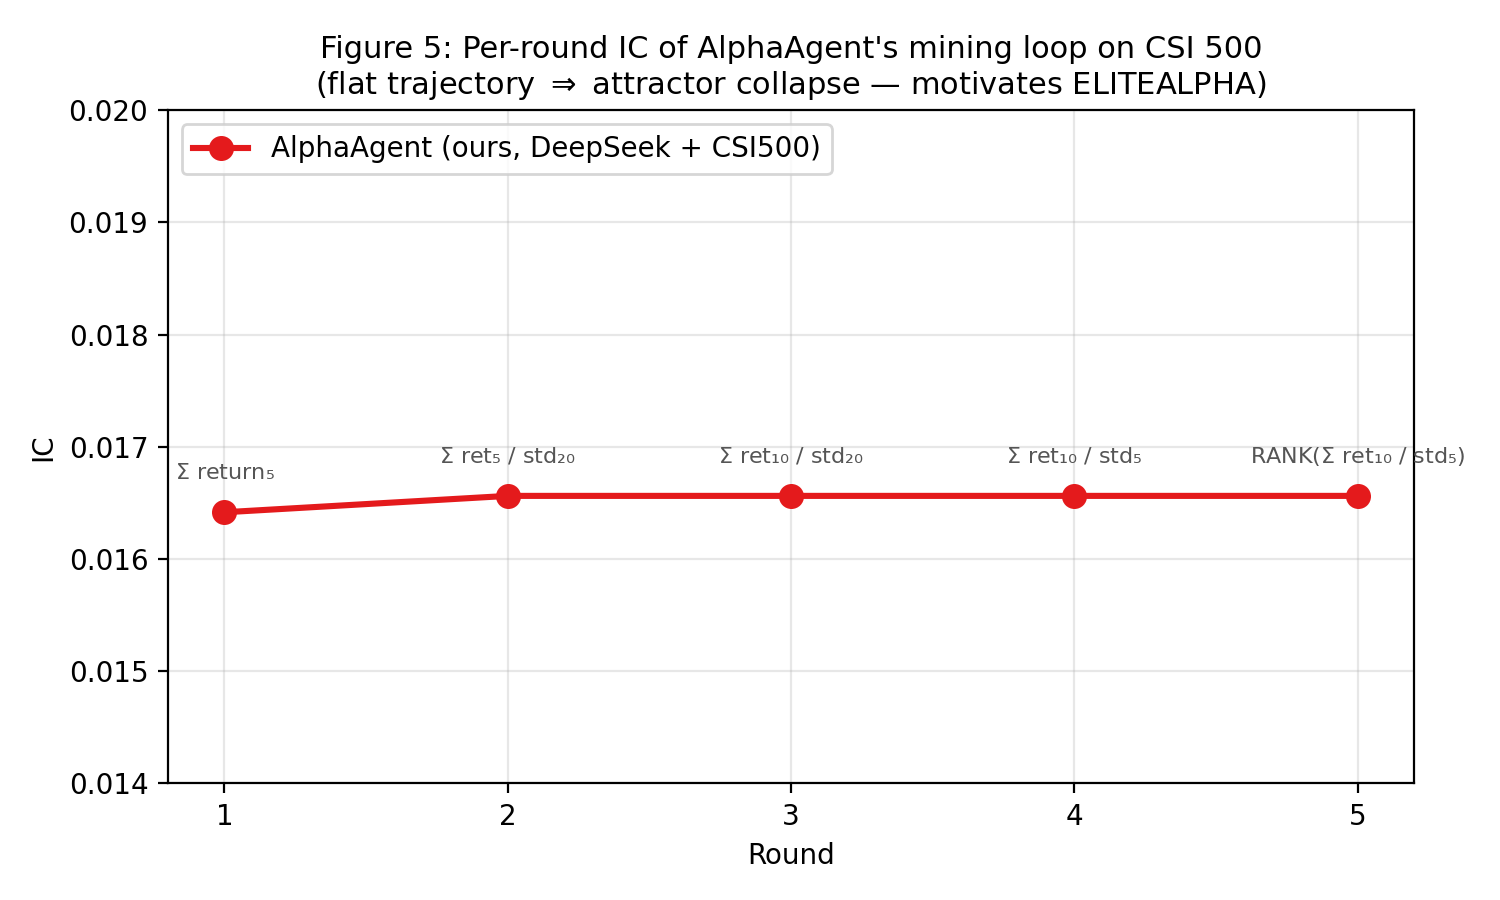
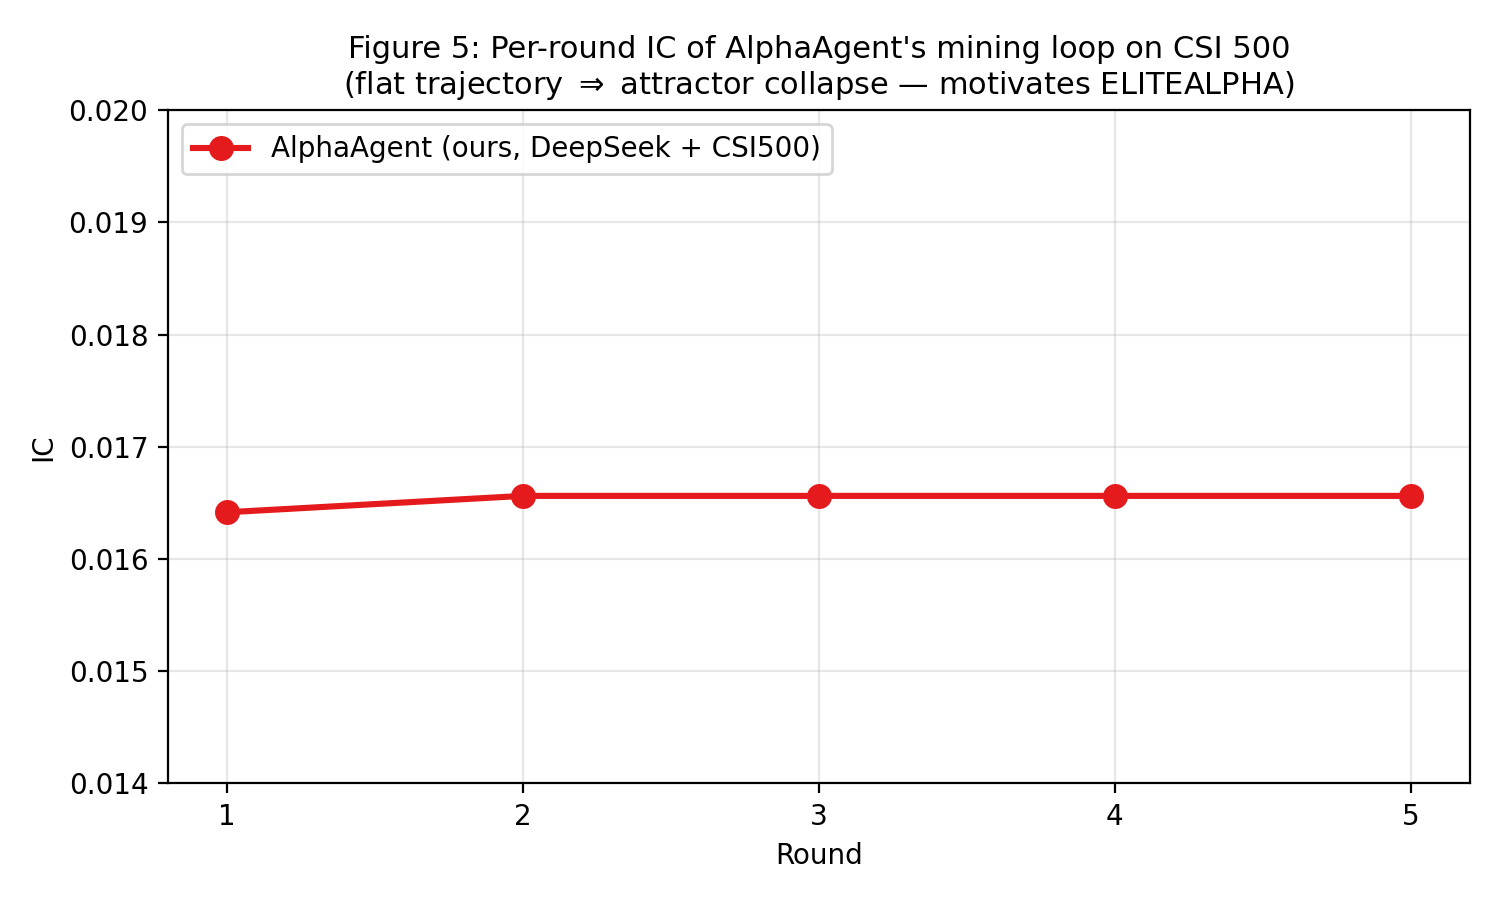
fix(figure5): drop per-point formula annotations (legend was clutter)

diff --git a/scripts/plot_figure5.py b/scripts/plot_figure5.py
@@ -58,18 +58,6 @@ def main() -> None:
     ax.plot(rounds, ic, color="#e41a1c", linewidth=2.2, marker="o",
             markersize=8, label="AlphaAgent (ours, DeepSeek + CSI500)")
 
-    # Annotate each round with the factor formula's "core".
-    cores = [
-        "$\\Sigma$ return₅",
-        "$\\Sigma$ ret₅ / std₂₀",
-        "$\\Sigma$ ret₁₀ / std₂₀",
-        "$\\Sigma$ ret₁₀ / std₅",
-        "RANK($\\Sigma$ ret₁₀ / std₅)",
-    ]
-    for r, y, c in zip(rounds, ic, cores):
-        ax.annotate(c, xy=(r, y), xytext=(0, 12), textcoords="offset points",
-                    fontsize=8, ha="center", color="#555")
-
     # Optional ELITEALPHA line.
     if ELITEALPHA_OURS is not None:
         rr = ELITEALPHA_OURS["rounds"]